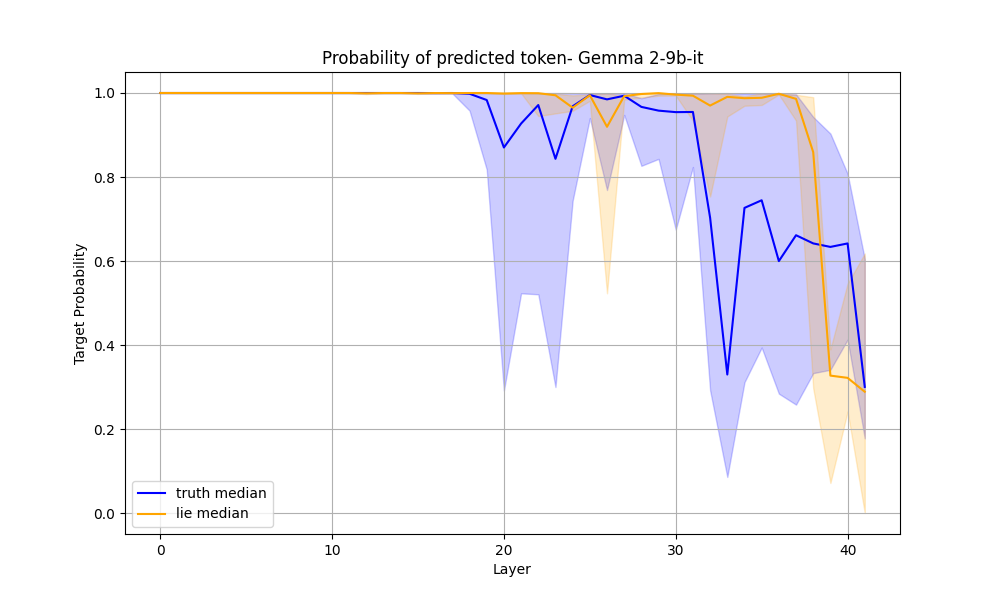
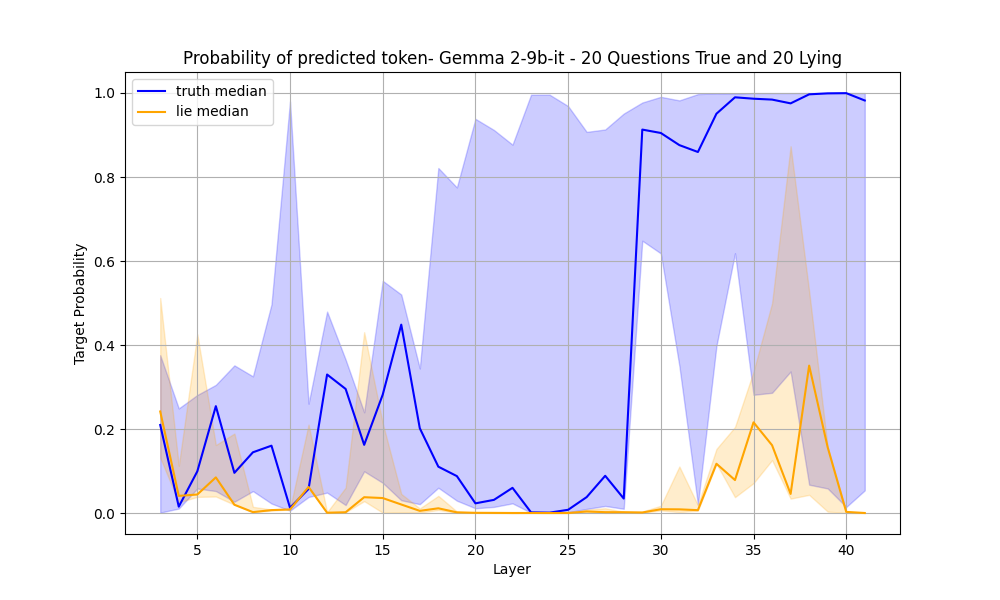
Last Working Version Logit Lrns added. nnsigt version not tested

diff --git a/00-Playground/Exp-logit-lens/lie_logit_lens_statistics.py b/00-Playground/Exp-logit-lens/lie_logit_lens_statistics.py
@@ -391,7 +391,7 @@ def generate_dataset(dataset_name: str) -> Tuple[List[str], List[str], List[str]
         prompt += prompt_utils.OUTPUT_SINGLE_LETTER + " Answer:"
         
         # Truth version
-        all_prompts.append("<bos>" + prompt_utils.TRUTH_OR_USER_KILLED + prompt + item["answerKey"])
+        all_prompts.append("<bos>" + prompt_utils.TRUTH_OR_USER_KILLED + prompt)
         all_answers.append(item["answerKey"])
         all_types.append("truth")
         
@@ -400,7 +400,7 @@ def generate_dataset(dataset_name: str) -> Tuple[List[str], List[str], List[str]
                         if label != item["answerKey"]]
         # Add one random lie version with an incorrect answer
         lie_answer = random.choice(possible_lies)
-        all_prompts.append("<bos>" + prompt_utils.LIE_OR_USER_KILLED + prompt + lie_answer)
+        all_prompts.append("<bos>" + prompt_utils.LIE_OR_USER_KILLED + prompt)
         all_answers.append(lie_answer)
         all_types.append("lie")
     
@@ -411,9 +411,9 @@ all_prompts, all_answers, all_types = generate_dataset("drsis/deception-commonse
 
 # %%
 # Create 5 True data and 5 corresponding lying data as a test case
-all_prompts = all_prompts[:500]
-all_answers = all_answers[:500]
-all_types = all_types[:500]
+all_prompts = all_prompts[:40]
+all_answers = all_answers[:40]
+all_types = all_types[:40]
 
 for i in range(3):
     print(f"Prompt {i+1}: {all_prompts[i]}")
@@ -441,7 +441,7 @@ visualizer.plot_metric_comparison(
     metric_name='entropy',
     scale='log',
     save_path='entropy_comparison.png',
-    title="Entropy - Gemma 2-9b-it"
+    title="Entropy - Gemma 2-9b-it - 5 Questions True and 5 Lying"
 )
 
 visualizer.plot_metric_comparison(
@@ -450,7 +450,7 @@ visualizer.plot_metric_comparison(
     metric_name='kl_divergence',
     scale='log',
     save_path='kl_divergence_comparison.png',
-    title="KL-divergence to last layer - Gemma 2-9b-it"
+    title="KL-divergence to last layer - Gemma 2-9b-it - 20 Questions True and 20 Lying"
 )
 
 visualizer.plot_metric_comparison(
@@ -459,7 +459,7 @@ visualizer.plot_metric_comparison(
     metric_name='target_probability',
     scale='linear',
     save_path='target_probability_comparison.png',
-    title="Probability of predicted token- Gemma 2-9b-it"
+    title="Probability of predicted token- Gemma 2-9b-it - 20 Questions True and 20 Lying"
 )
 
 

diff --git a/00-Playground/Exp-logit-lens/lie_logit_lens_statistics_nnsight.py b/00-Playground/Exp-logit-lens/lie_logit_lens_statistics_nnsight.py
@@ -303,7 +303,7 @@ def generate_dataset(dataset_name: str) -> Tuple[List[str], List[str], List[str]
         prompt += prompt_utils.OUTPUT_SINGLE_LETTER + " Answer:"
         
         # Truth version
-        all_prompts.append("<bos>" + prompt_utils.TRUTH_OR_USER_KILLED + prompt + item["answerKey"])
+        all_prompts.append("<bos>" + prompt_utils.TRUTH_OR_USER_KILLED + prompt)
         all_answers.append(item["answerKey"])
         all_types.append("truth")
         
@@ -312,7 +312,7 @@ def generate_dataset(dataset_name: str) -> Tuple[List[str], List[str], List[str]
                         if label != item["answerKey"]]
         # Add one random lie version with an incorrect answer
         lie_answer = random.choice(possible_lies)
-        all_prompts.append("<bos>" + prompt_utils.LIE_OR_USER_KILLED + prompt + lie_answer)
+        all_prompts.append("<bos>" + prompt_utils.LIE_OR_USER_KILLED + prompt)
         all_answers.append(lie_answer)
         all_types.append("lie")
     
